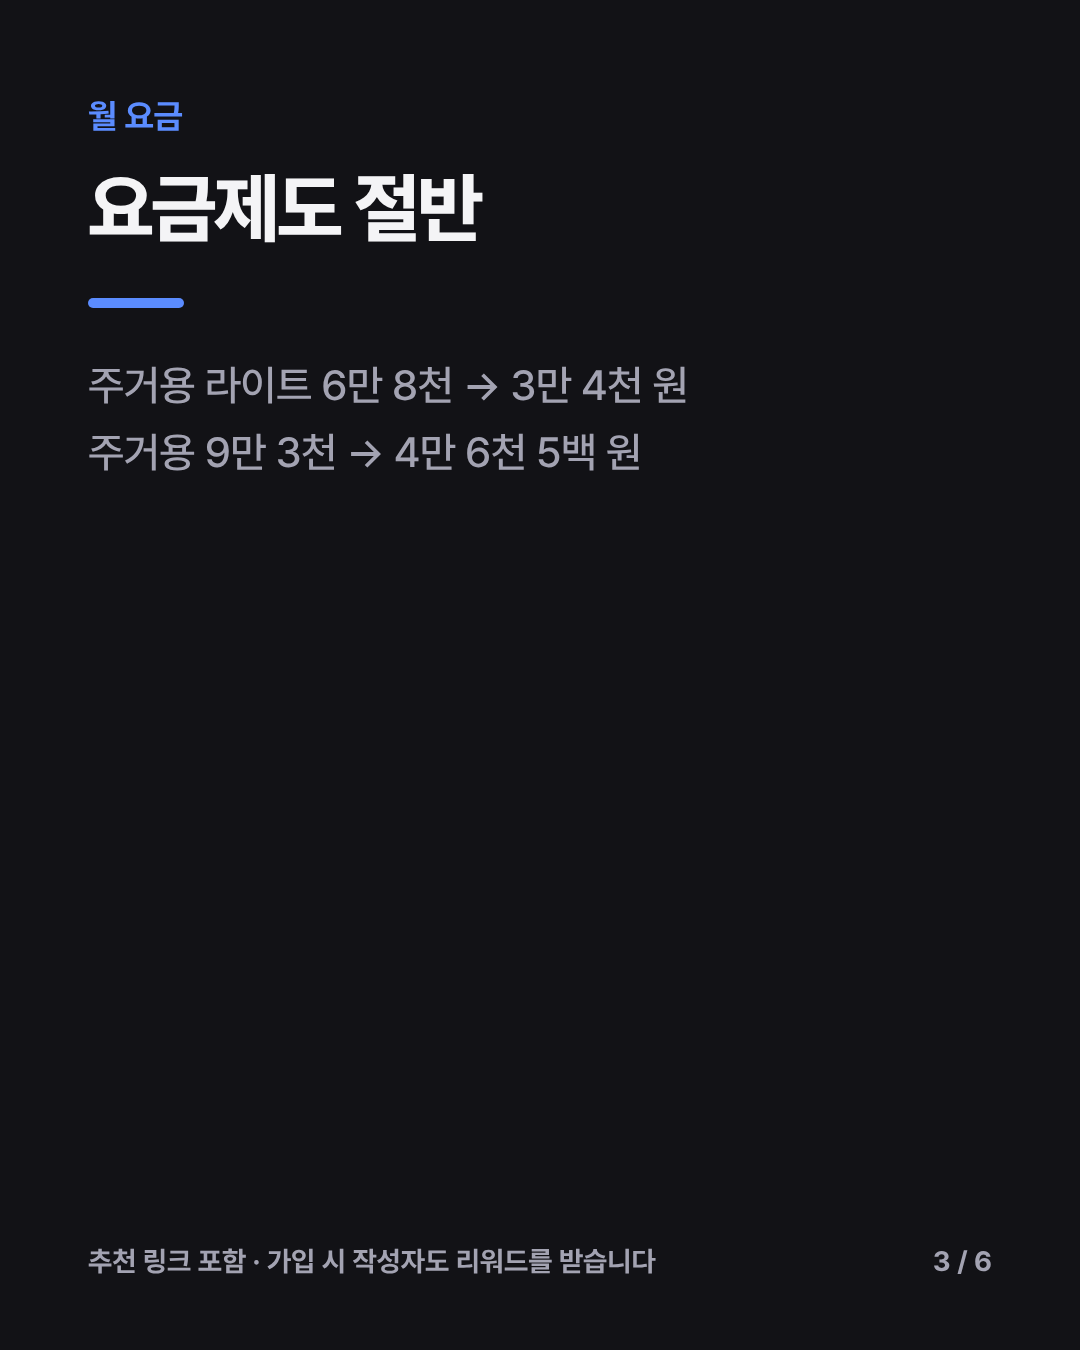
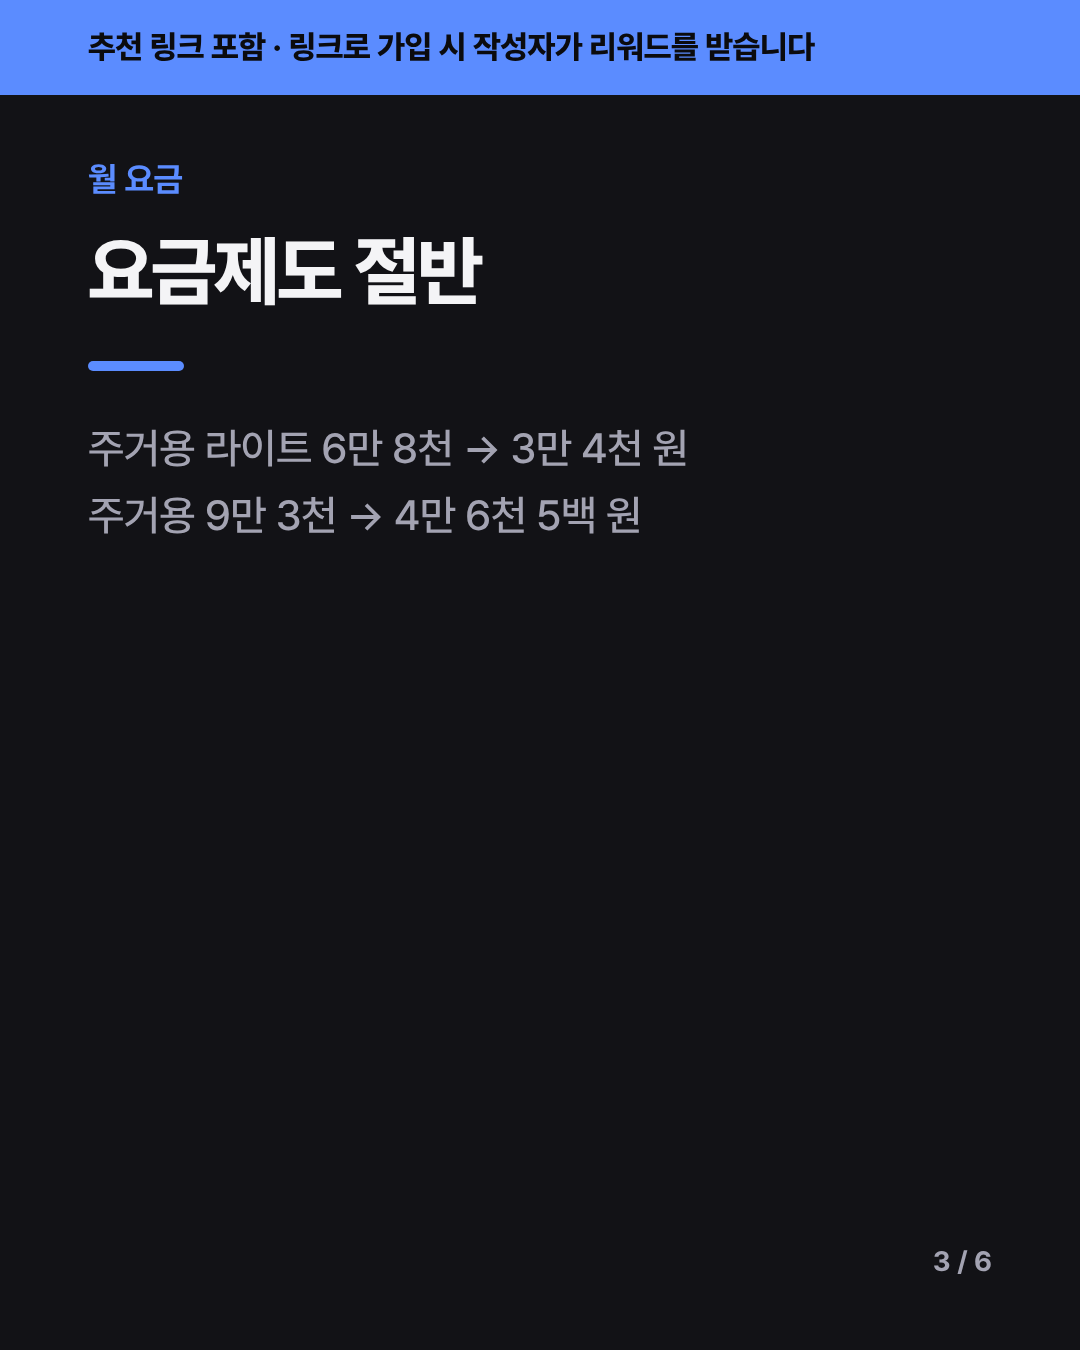
제작 2026-11-18: 검수 보류 사항 반영
마감일에 '보도 기준'을 붙이고, 가입자 리워드를 단정한 문장을 고쳤다.
밖에서 쓸 때 요금제 조건을 확인하라는 안내를 넣었다. 카드뉴스의 추천 표시를
모든 카드 상단의 눈에 띄는 띠로 옮겼다(render_cards의 notice 필드).
재검수를 위해 두 소재를 drafted로 되돌렸다.

Claude-Session: https://claude.ai/code/session_015tx819vuc4pyFPfp6DvgFx

diff --git a/tools/render_cards.js b/tools/render_cards.js
@@ -7,6 +7,7 @@
 // cards.json 형식:
 // {
 //   "brand": "계정 이름(선택, 카드 아래에 표시)",
+//   "notice": "표시 문구(선택). 모든 카드 맨 위에 눈에 띄는 띠로 표시. 광고·추천 표시에 쓴다",
 //   "theme": "light" | "dark" | "accent",   // 선택, 기본 light
 //   "accent": "#2f6bff",                     // 선택, 강조색
 //   "cards": [
@@ -63,8 +64,11 @@ body{background:${bg};color:${theme.fg};font-family:"Pretendard",sans-serif;
 .title{font-size:${cover ? 104 : 76}px;font-weight:800;line-height:1.18;letter-spacing:-0.035em}
 .rule{width:96px;height:10px;border-radius:5px;background:${mark};margin:44px 0}
 .body{font-size:42px;font-weight:500;line-height:1.6;letter-spacing:-0.015em;color:${theme.sub}}
+.notice{margin:-96px -88px 64px;padding:26px 88px;background:${mark};color:${spec.theme === 'accent' ? accent : (spec.theme === 'dark' ? '#0b0b0e' : '#ffffff')};
+  font-size:32px;font-weight:800;letter-spacing:-0.01em;line-height:1.35}
 .foot{display:flex;justify-content:space-between;align-items:center;font-size:28px;font-weight:700;color:${theme.sub}}
 </style></head><body>
+${spec.notice ? `<div class="notice">${esc(spec.notice)}</div>` : ''}
 <div class="main">
   ${card.kicker ? `<div class="kicker">${esc(card.kicker)}</div>` : ''}
   <div class="title">${lines(card.title)}</div>

diff --git a/content/20261118-02/review.md b/content/20261118-02/review.md
@@ -1,0 +1,60 @@
+# 검수: 20261118-02 스타링크 미니 vs 스탠다드, 내 상황엔 뭐가 맞을까
+
+- 검수일: 2026-11-18
+- 대상 파일: instagram.md, threads.md, cards.json, cards/01~05.png
+- 판정: **held**
+
+## 1. 광고 표시: 문제 없음(권고 1건)
+
+- 인스타그램 캡션과 스레드 본문 첫 줄에 "[추천 링크 포함] … 저도 (스타링크) 리워드를 받습니다"가 있다.
+- 카드 5장 모두 하단에 "추천 링크 포함 · 가입 시 작성자도 리워드를 받습니다"가 있다(05.png에서 확인).
+- 권고: 20261118-01과 같다. 1번 카드에서는 표시를 상단으로 올리거나 키우는 것이 좋다.
+
+## 2. 사실: 보류(필수 수정 3건)
+
+무게(약 1.1kg, 약 3kg 세대별 차이), 크기(약 29 × 25cm), 와이파이 내장, 평균 전력 범위, 할인가 키트(16만, 27만 5천)는 브리프 출처와 일치하고 "약"과 범위로 적었다. 속도 비교는 브리프 지시대로 뺐다.
+
+걸린 것:
+
+1. **마감일 단정.** 스레드와 카드 3·4에 "(11/28까지)"라고 적었다. 이 수치는 하드웨어 가격인데, 출처 하나는 하드웨어 할인을 11/30으로 적었고 공식 사이트로는 확인하지 못했다.
+   - 고칠 방법: "(보도 기준 11/28까지)"처럼 근거를 붙이거나, 날짜는 빼고 "할인 기간은 결제 화면 확인"으로 둔다.
+2. **"이동 근무 → 미니", "캠핑·차박·낚시 → 미니"의 사용 조건.** 하드웨어 비교로는 맞는 말이지만 요금제 조건이 빠져 있다. 한국에서 미니를 등록 주소 밖이나 이동 중에 쓸 수 있는 요금제가 무엇인지 브리프에 출처가 없다. 같은 날 나가는 20261118-01은 미니를 주거용 라이트와 묶어 보여 준다. 그래서 독자가 "반값 미니 + 라이트로 캠핑·이동 근무가 된다"고 오해할 수 있다.
+   - 고칠 방법: 카드 5와 캡션 또는 스레드에 "밖에서·이동 중 쓰려면 그게 되는 요금제인지 가입 전에 확인하세요"를 한 줄 넣는다. 확인되면 브리프에 출처를 추가한다.
+3. **"스탠다드는 별도 공유기"(스레드), "별도 공유기 사용"(카드 4).** 브리프 근거는 "외장 공유기"다. "별도"는 공유기를 따로 사야 한다는 뜻으로 읽힐 수 있다. 구매 판단에 직접 영향을 주는 표현이다.
+   - 고칠 방법: 브리프대로 "외장 공유기"로 쓴다. 키트에 포함된다고 쓰려면 출처를 브리프에 추가한다.
+
+권고:
+- 카드 5의 출처 줄에 가격 출처(make2t)와 무게·크기 출처(LA Shop, EarthSims)가 빠져 있다. 브리프의 출처를 모두 적는 것이 좋다. 스레드에는 출처가 없으니 "출처: DishyTech, USMobile, make2t 등"을 한 줄 넣는 것이 좋다.
+- 스레드의 "스탠다드 약 3kg"에도 카드처럼 "(세대별 차이)"를 붙이면 브리프와 맞는다.
+
+## 3. 저작권과 초상권: 문제 없음
+
+카드는 텍스트만으로 만든 이미지다. 제품 사진, 로고, 타인의 이미지가 없다.
+
+## 4. 조작: 문제 없음
+
+써 본 사람의 후기처럼 쓴 부분이 없다. "자료마다 달라서 범위로 적었다"고 정리 글이라는 것을 밝혔다. 사칭도 없다.
+
+## 5. 채널 규정: 문제 없음(운영 주의 1건)
+
+- 해시태그: 인스타그램 5개. 스레드에는 없다.
+- 길이: 스레드는 500자 안쪽이다.
+- 링크: 두 채널 모두 프로필 링크이고, 본문에는 링크도 자리표시자도 없다. 내 채널에만 두므로 보도된 추천 약관(대량 배포 금지, 링크를 넣은 유료 광고 금지)과 맞는다. 공식 약관 원문은 읽지 못했다.
+- 운영 주의: 이 게시물을 유료로 홍보하면 `banned_topics`(추천 링크를 넣은 유료 광고)에 해당한다. 프로필 링크도 추천 링크라 같은 문제가 된다.
+- 참고: 브리프는 "추천 링크는 캡션 끝에 한 번"이라고 했지만 인스타그램 캡션에는 링크가 들어가지 않으므로 프로필 링크로 둔 것이 맞다. 다만 캡션 끝에 "링크는 프로필에 있습니다" 같은 안내가 없다. 반려 사유는 아니다.
+
+## 6. AI 표시: 해당 없음
+
+생성한 실사형 이미지나 영상이 없다.
+
+## 7. 위험 주제: 문제 없음
+
+비방, 혐오, 효능 단정이 없다. 리워드 금액이나 확인되지 않은 할인 금액도 없다.
+
+## 8. 톤: 문제 없음
+
+숫자와 조건을 먼저 보여 주고, 범위와 측정 차이를 밝혔다. 존댓말이다. 미니의 아쉬운 점(작은 접시의 한계 등)은 없지만 속도는 출처가 일관되지 않아 뺀 것이라 이해된다.
+
+## 고친 뒤
+
+필수 수정 3건(마감일 근거, 이동 사용 요금제 조건, "외장 공유기" 표현)이 반영되면 다시 검수한다.

diff --git a/content/20261118-01/blog.md b/content/20261118-01/blog.md
@@ -1,6 +1,6 @@
 # 제목
 
-스타링크 50% 할인 11월 28일까지: 미니·스탠다드 첫 달 실구매비 정리 (추천인 링크 포함)
+스타링크 50% 할인 보도 기준 11월 28일까지: 미니·스탠다드 첫 달 실구매비 정리 (추천인 링크 포함)
 
 # 검색어
 
@@ -38,15 +38,17 @@
 2. **월 요금 할인이 몇 달 유지되는지.** 제가 확인한 자료에는 기간이 나와 있지 않았습니다. 결제 화면에서 꼭 확인하세요.
 3. **마감일.** 보도는 11월 28일, 일부 정리 글은 하드웨어 할인을 11월 30일로 적고 있습니다. 28일을 기준으로 잡는 게 안전합니다.
 
+표의 금액은 키트와 첫 달 요금만 더한 값입니다. 배송비 등 다른 비용은 결제 화면을 기준으로 하세요.
+
 ## 누구에게 맞을까
 
 - 유선 인터넷이 안 들어오거나 느린 전원주택, 농촌, 섬
-- 캠핑, 차박, 낚시처럼 이동하면서 인터넷이 필요한 경우(미니)
+- 캠핑, 차박, 낚시처럼 이동하면서 인터넷이 필요한 경우(미니). 위 표의 주거용 요금제 조합이 집 밖이나 이동 중에도 쓸 수 있는지는 확인하지 못했습니다. 밖에서 쓰실 계획이면 가입 전에 요금제 사용 조건을 꼭 확인하세요.
 - 도심에서 집 인터넷을 바꾸려는 경우는 통신사 유선 요금과 먼저 비교해 보세요. 할인가여도 유선보다 비쌀 수 있습니다.
 
 ## 추천 링크
 
-추천 링크로 가입하면 가입하신 분과 저 모두 스타링크 리워드를 받을 수 있습니다. 리워드 내용과 지급 조건은 가입 화면에서 확인하세요.
+아래 추천 링크로 가입하시면 저는 스타링크 리워드를 받습니다. 가입하시는 분이 받는 혜택이 있는지, 있다면 무엇인지는 가입 화면에서 확인하세요.
 할인과 리워드가 함께 적용되는지는 제가 확인하지 못했습니다.
 
 {{REFERRAL_LINK}}

diff --git a/content/20261118-01/brief.md b/content/20261118-01/brief.md
@@ -6,7 +6,8 @@
 
 ## 공유 이유
 
-마감이 있는 정보다. "이거 28일까지래"라고 가족 단톡방이나 캠핑 동호회 지인에게 보내기 좋다.
+마감이 있는 정보다. 읽은 사람이 "이거 28일까지래"라고 지인에게 보내기 좋다.
+팀은 남의 단톡방, 동호회 게시판, 댓글에 이 글이나 링크를 직접 올리지 않는다. 게시물을 유료로 홍보하지도 않는다.
 
 ## 훅 후보
 
@@ -48,7 +49,8 @@
 | 스탠다드 + 주거용 라이트 | 309,000원 | 618,000원 |
 | 스탠다드 + 주거용 | 321,500원 | 643,000원 |
 
-확인하지 못한 것: 월 요금 할인이 몇 달 동안 유지되는지, 추천 리워드와 중복되는지, 한국의 추천 리워드 내용.
+확인하지 못한 것: 월 요금 할인이 몇 달 동안 유지되는지, 추천 리워드와 중복되는지, 한국의 추천 리워드 내용(특히 가입자 쪽 혜택),
+주거용 요금제를 미니로 집 밖이나 이동 중에 쓸 수 있는지.
 본문에 이것들을 단정하지 않고 "공식 사이트에서 확인"으로 둔다.
 
 ## 목표 지표

diff --git a/content/20261118-01/threads.md b/content/20261118-01/threads.md
@@ -2,7 +2,7 @@
 
 [추천 링크 포함] 프로필 링크로 가입하시면 저도 리워드를 받습니다.
 
-스타링크가 지금 반값입니다. 신규 가입 기준 11월 28일까지.
+스타링크가 지금 반값입니다. 신규 가입 대상, 보도 기준 11월 28일까지.
 
 미니 키트 32만 → 16만
 주거용 라이트 월 6만8천 → 3만4천
@@ -17,4 +17,5 @@
 · 스탠다드 + 라이트: 309,000원
 · 스탠다드 + 주거용: 321,500원
 
-주소에 따라 라이트가 안 될 수 있고, 월 요금 할인 기간은 결제 화면에서 확인하세요.
+주소에 따라 라이트가 안 될 수 있고, 월 요금 할인 기간과 밖에서 쓸 수 있는지는 결제 화면에서 확인하세요.
+출처: 아시아타임즈(11.04), make2t 정리

diff --git a/content/20261118-02/threads.md b/content/20261118-02/threads.md
@@ -6,8 +6,10 @@
 들고 다니면 미니, 집에 달면 스탠다드.
 
 · 무게: 미니 약 1.1kg / 스탠다드 약 3kg
-· 와이파이: 미니는 공유기 내장 / 스탠다드는 별도 공유기
+· 와이파이: 미니는 공유기 내장 / 스탠다드는 외장 공유기
 · 평균 전력: 미니 약 25~40W / 스탠다드 약 75~100W
-· 할인가 키트: 미니 16만 / 스탠다드 27만 5천(11/28까지)
+· 할인가 키트: 미니 16만 / 스탠다드 27만 5천(보도 기준 할인 기간 중)
 
 전력은 측정마다 차이가 있어서 범위로 적었어요.
+밖에서 쓰실 거라면 장비보다 요금제 사용 조건을 먼저 확인하세요.
+출처: DishyTech, USMobile, LA Shop, EarthSims, make2t

diff --git a/content/20261118-01/instagram.md b/content/20261118-01/instagram.md
@@ -6,11 +6,12 @@
 
 [추천 링크 포함] 프로필 링크로 가입하시면 저도 스타링크 리워드를 받습니다.
 
-스타링크 반값 할인, 28일까지예요.
+스타링크 반값 할인, 보도 기준 28일까지예요.
 미니 + 라이트 조합이면 첫 달 19만 4천 원으로 시작합니다.
 
 사기 전에 주소별 라이트 요금제 가능 여부와
 월 요금 할인 기간은 결제 화면에서 꼭 확인하세요.
+캠핑·차박처럼 밖에서 쓰실 거면 요금제 사용 조건도요.
 
 고민하던 분께 공유해 주세요.
 추천 링크는 프로필에 있습니다.

diff --git a/content/20261118-01/x.md b/content/20261118-01/x.md
@@ -2,7 +2,7 @@
 
 [추천 링크 포함, 가입 시 저도 리워드를 받습니다]
 
-스타링크 반값 할인 11/28까지(신규 가입)
+스타링크 반값 할인, 보도 기준 11/28까지(신규 가입)
 미니 키트 16만, 주거용 라이트 월 3만4천
 → 첫 달 19만4천 원
 

diff --git a/content/20261118-02/instagram.md b/content/20261118-02/instagram.md
@@ -11,6 +11,7 @@
 
 무게, 와이파이, 전력 차이를 정리했어요.
 수치는 자료마다 조금씩 달라서 범위로 적었습니다.
+밖에서 쓰실 거라면 요금제 사용 조건도 꼭 확인하세요.
 
 저장해 두고 살 때 다시 보세요.
 
